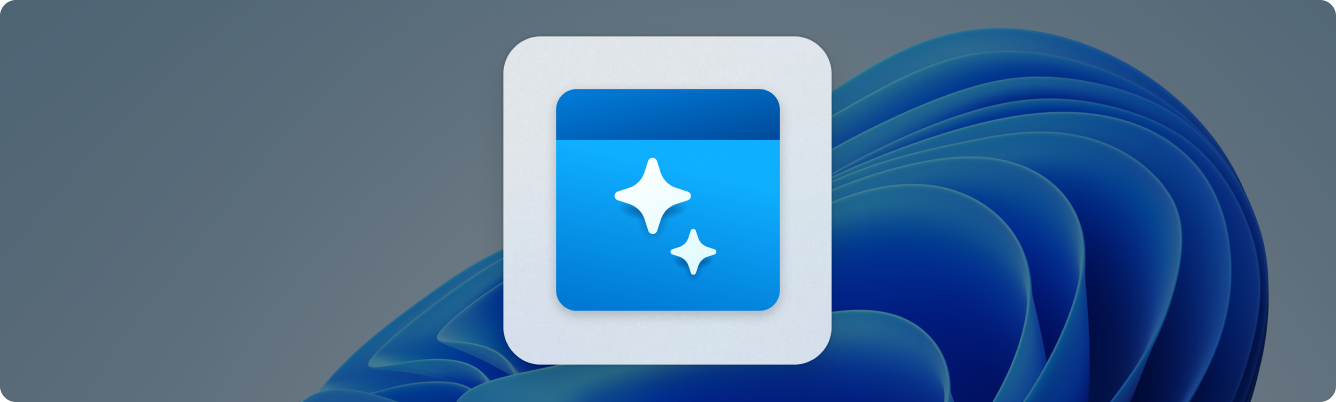
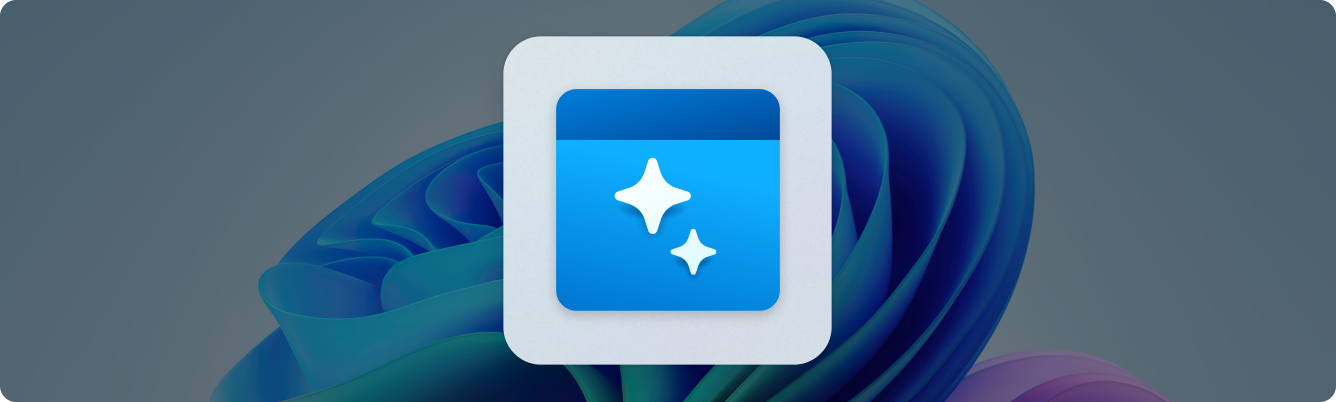
Updating images

diff --git a/README.md b/README.md
@@ -15,7 +15,7 @@ The AI Dev Gallery is an app designed to help Windows developers integrate AI ca
 
 <p align="center">
 <br/>
-<img src="docs/images/AI Gallery.png" alt="AI Dev Gallery" width="600"/>
+<img src="docs/images/HeroImage1.png" alt="AI Dev Gallery" width="600"/>
 
 ## 🚀 Getting Started
 Follow the following guide to install the AI Dev Gallery locally:
